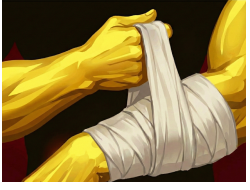
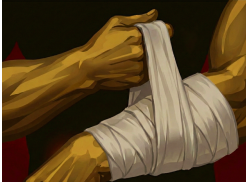
新增杀招星宿棋盘及相应遗物，修改部分卡图

diff --git a/src/main/java/GuZhenRen/cards/XingXiuQiPan.java b/src/main/java/GuZhenRen/cards/XingXiuQiPan.java
@@ -1,0 +1,112 @@
+package GuZhenRen.cards;
+
+import GuZhenRen.GuZhenRen;
+import GuZhenRen.patches.GuZhenRenTags;
+import com.megacrit.cardcrawl.actions.AbstractGameAction;
+import com.megacrit.cardcrawl.cards.AbstractCard;
+import com.megacrit.cardcrawl.cards.CardGroup;
+import com.megacrit.cardcrawl.characters.AbstractPlayer;
+import com.megacrit.cardcrawl.core.CardCrawlGame;
+import com.megacrit.cardcrawl.core.Settings;
+import com.megacrit.cardcrawl.dungeons.AbstractDungeon;
+import com.megacrit.cardcrawl.localization.CardStrings;
+import com.megacrit.cardcrawl.monsters.AbstractMonster;
+
+import java.util.ArrayList;
+
+public class XingXiuQiPan extends AbstractShaZhaoCard {
+    public static final String ID = GuZhenRen.makeID("XingXiuQiPan");
+    private static final CardStrings cardStrings = CardCrawlGame.languagePack.getCardStrings(ID);
+    public static final String NAME = cardStrings.NAME;
+    public static final String DESCRIPTION = cardStrings.DESCRIPTION;
+    public static final String IMG_PATH = GuZhenRen.assetPath("img/cards/XingXiuQiPan.png");
+
+    private static final int COST = 1;
+
+    public XingXiuQiPan() {
+        super(ID, NAME, IMG_PATH, COST, DESCRIPTION,
+                CardType.SKILL,
+                CardTarget.SELF);
+
+        this.setDao(Dao.ZHI_DAO);
+
+        this.initializeDescription();
+    }
+
+    @Override
+    public void use(AbstractPlayer p, AbstractMonster m) {
+        this.addToBot(new XingXiuQiPanAction());
+    }
+
+    // =========================================================================
+    //  自定义 Action
+    // =========================================================================
+    public static class XingXiuQiPanAction extends AbstractGameAction {
+
+        public XingXiuQiPanAction() {
+            this.actionType = ActionType.CARD_MANIPULATION;
+            this.duration = Settings.ACTION_DUR_MED;
+        }
+
+        @Override
+        public void update() {
+            if (this.duration == Settings.ACTION_DUR_MED) {
+                AbstractPlayer p = AbstractDungeon.player;
+
+                // --- 1. 先把牌捞上手 ---
+                // 处理抽牌堆
+                moveCardsToHand(p.drawPile, p);
+                // 处理弃牌堆
+                moveCardsToHand(p.discardPile, p);
+
+                // --- 2. 对手牌中的智道牌减费 ---
+                for (AbstractCard c : p.hand.group) {
+                    if (isZhiDaoCard(c)) {
+                        // 本回合耗能为0
+                        c.setCostForTurn(0);
+                        c.superFlash();
+                    }
+                }
+
+                // 刷新手牌布局
+                p.hand.refreshHandLayout();
+
+                this.isDone = true;
+            }
+        }
+
+        /**
+         * 将指定牌堆中的智道牌移动到手牌
+         */
+        private void moveCardsToHand(CardGroup group, AbstractPlayer p) {
+            ArrayList<AbstractCard> cardsToMove = new ArrayList<>();
+
+            for (AbstractCard c : group.group) {
+                if (isZhiDaoCard(c)) {
+                    cardsToMove.add(c);
+                }
+            }
+
+            for (AbstractCard c : cardsToMove) {
+                if (p.hand.size() < 10) {
+                    group.removeCard(c);
+                    p.hand.addToHand(c);
+                    c.lighten(false);
+                    c.unhover();
+                    c.applyPowers();
+                } else {
+                    p.createHandIsFullDialog();
+                }
+            }
+        }
+
+        private boolean isZhiDaoCard(AbstractCard c) {
+            // 排除自身
+            if (c.cardID.equals(XingXiuQiPan.ID)) {
+                return false;
+            }
+            // 使用 Tag 判断
+            return c.hasTag(GuZhenRenTags.ZHI_DAO);
+        }
+    }
+}

diff --git a/src/main/java/GuZhenRen/relics/Recipe_XingXiuQiPan.java b/src/main/java/GuZhenRen/relics/Recipe_XingXiuQiPan.java
@@ -1,0 +1,93 @@
+package GuZhenRen.relics;
+
+import GuZhenRen.GuZhenRen;
+import GuZhenRen.cards.AbstractGuZhenRenCard;
+import GuZhenRen.cards.XingXiuQiPan; // 奖励牌
+import GuZhenRen.cards.ZhiHuiGu;     // 固定材料
+import GuZhenRen.patches.GuZhenRenTags;
+import com.megacrit.cardcrawl.cards.AbstractCard;
+
+import java.util.ArrayList;
+
+public class Recipe_XingXiuQiPan extends AbstractRecipeRelic {
+    public static final String ID = GuZhenRen.makeID("Recipe_XingXiuQiPan");
+    private static final String IMG = "Recipe_ZhiDao.png";
+    private static final String OUTLINE = "Recipe_ZhiDao.png";
+
+    public Recipe_XingXiuQiPan() {
+        super(ID, IMG, OUTLINE, RelicTier.SPECIAL, LandingSound.FLAT);
+    }
+
+    @Override
+    public String getUpdatedDescription() {
+        return DESCRIPTIONS[0];
+    }
+
+    //  步骤 1：固定材料
+    @Override
+    public ArrayList<String> getRequiredCardIDs() {
+        ArrayList<String> list = new ArrayList<>();
+        list.add(ZhiHuiGu.ID);
+        return list;
+    }
+
+    @Override
+    public boolean requiresUpgrade(String cardID) {
+        return false;
+    }
+
+    //  步骤 2：泛型材料
+
+    // 1. 总步骤数：2
+    @Override
+    public int getIngredientCount() {
+        return 2;
+    }
+
+    // 2. 泛型判定逻辑 (index=1)
+    @Override
+    public boolean isGenericIngredient(int index, AbstractCard c) {
+        if (index == 1) {
+            // 条件A: 智道
+            if (!c.hasTag(GuZhenRenTags.ZHI_DAO)) {
+                return false;
+            }
+
+            // 条件B: 排除 智慧蛊
+            if (c.cardID.equals(ZhiHuiGu.ID)) {
+                return false;
+            }
+
+            // 条件C: 六转及以上
+            if (c instanceof AbstractGuZhenRenCard) {
+                return ((AbstractGuZhenRenCard) c).rank >= 6;
+            }
+
+            return false;
+        }
+        return false;
+    }
+
+    // 3. UI提示文本
+    @Override
+    public String getIngredientDescription(int index) {
+        if (index == 1) {
+            return "智道仙蛊";
+        }
+        return super.getIngredientDescription(index);
+    }
+
+    // =========================================================================
+    //  奖励配置
+    // =========================================================================
+    @Override
+    public ArrayList<String> getRequiredRelicIDs() {
+        return new ArrayList<>();
+    }
+
+    @Override
+    public AbstractCard getRewardCard() {
+        // 返回 星宿棋盘
+        return new XingXiuQiPan();
+    }
+}

diff --git a/src/main/java/GuZhenRen/GuZhenRen.java b/src/main/java/GuZhenRen/GuZhenRen.java
@@ -148,6 +148,7 @@ public class GuZhenRen implements
         BaseMod.addCard(new ZhuiMingHuo());
         BaseMod.addCard(new LeShanLeShuiGu());
         BaseMod.addCard(new ZhuiNian());
+        BaseMod.addCard(new XingXiuQiPan());
         BaseMod.addCard(new SheXinGu());
     }
 
@@ -177,6 +178,8 @@ public class GuZhenRen implements
         recipeRelicIDs.add(Recipe_YangMangBeiHuoYi.ID);
         BaseMod.addRelic(new Recipe_ZhuiMingHuo(), RelicType.SHARED);
         recipeRelicIDs.add(Recipe_ZhuiMingHuo.ID);
+        BaseMod.addRelic(new Recipe_XingXiuQiPan(), RelicType.SHARED);
+        recipeRelicIDs.add(Recipe_XingXiuQiPan.ID);
     }
 
     @Override
